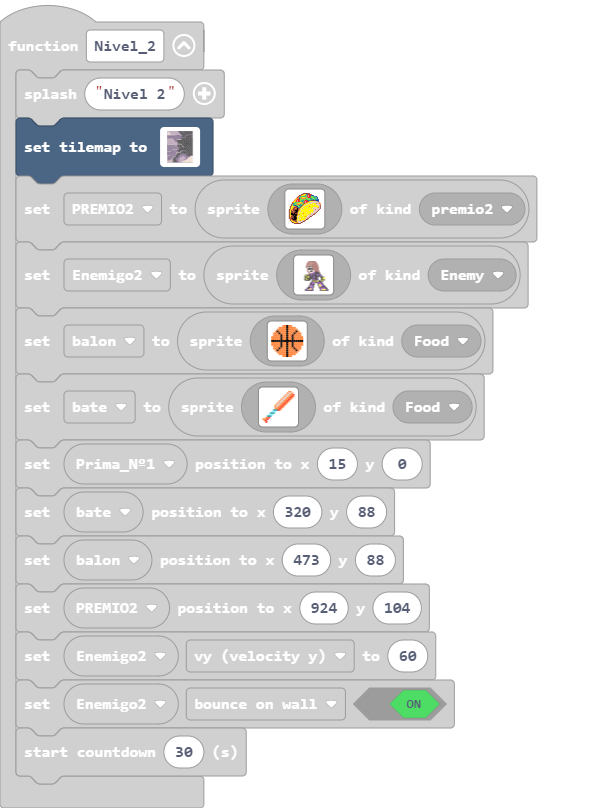
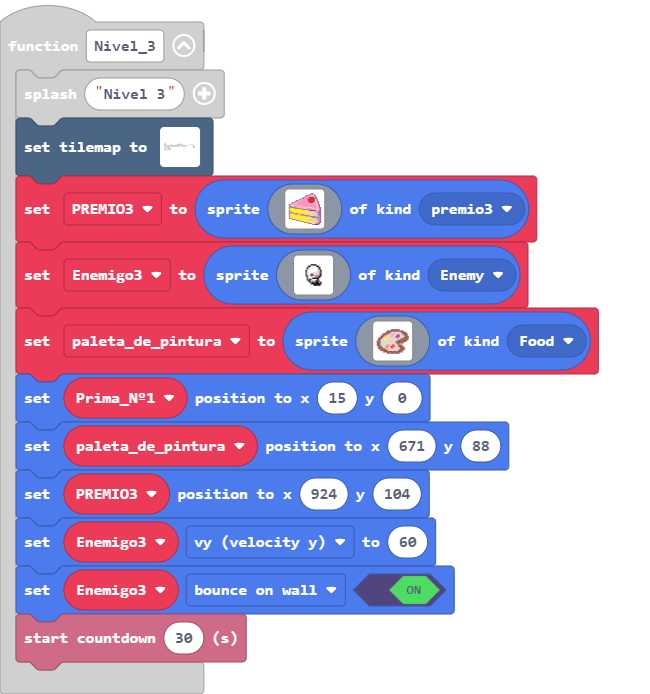
mapa 3

diff --git a/main.ts b/main.ts
@@ -18,6 +18,28 @@ namespace SpriteKind {
 }
 function Nivel_3 () {
     game.splash("Nivel 3")
[1 lines of base64/hex data omitted]
+        2 2 2 2 2 2 2 2 2 2 2 2 2 2 2 2 2 2 2 2 2 2 2 2 2 2 2 2 2 2 2 2 2 2 2 2 2 2 2 2 2 2 2 2 2 2 2 2 2 2 2 2 2 2 2 2 2 2 2 2 2 2 2 2 2 2 2 2 2 2 2 2 2 2 2 2 2 2 2 2 2 2 2 2 2 2 2 2 2 2 
+        2 2 2 2 . . . . . . . . . . . . . . . . . . . . . . . . . . . . . . . . . . . . . . . . . . . . . . . . . . . . . . . . . . . . . . . . . . . . . . . . . . . . . . . . . . . . . 2 
+        2 2 2 2 2 . . . . . . . . . . . . . . . . . . . . . . . . . . . . . . . . . . . . . . . . . . . . . . . . . . . . . . . . . . . . . . . . . . . . . . . . . . . . . . . . . . . . 2 
+        2 2 2 2 2 . . . . . . . . . . . . . . . . . . . . . . . . . . . . . . . . . . . . . . . . . . . . . . . . . . . . . . . . . . . . . . . . . . . . . . . . . . . . . . . . . . . . 2 
+        2 2 . . . . . . . . . . . . . . . . . . . . . . . . . . . . . . . . . . . . . . . . . . . . . . . . . . . . . . . . . . . . . . . . . . . . . . . 2 2 2 2 2 2 2 2 2 2 . . . . . . 2 
+        2 2 . . . . . . . . . . . . . . . . . . . . . . . . . . . . . 2 2 2 2 2 2 2 2 2 . . . . 2 2 2 2 2 2 . . . . . . . . . . 2 2 2 . . . . . . . . . . 2 2 2 2 2 2 2 2 2 2 . . . . . . 2 
+        2 2 . . . . . . . . . . . . . . . . . . . . . . . . . . 2 2 2 2 2 2 2 2 2 2 2 2 2 . . . 2 2 2 2 2 2 . . . . . . . . 2 2 2 2 2 2 2 2 . . . . . 2 2 2 2 2 . . . . 2 2 2 . . . . . . 2 
+        2 2 . . . . . . . 2 2 2 2 2 . . . . 2 2 2 2 2 . . . . . 2 2 2 2 2 . . . . . . 2 2 . . . 2 2 2 2 2 2 2 . . . . . . 2 2 2 2 2 2 2 2 2 2 2 2 2 2 2 2 2 2 . . . . . . 2 2 . . . . . . 2 
+        2 2 2 2 2 2 2 2 2 2 2 2 2 2 2 2 2 2 2 . . . 2 2 2 2 2 2 2 . . . . . . . . . . . 2 2 2 2 2 . . 2 2 2 2 2 . . . . 2 2 2 2 2 2 2 2 2 2 2 2 2 2 2 2 2 2 . . . . . . . 2 2 2 2 . . . . 2 
+        2 2 2 2 2 2 2 2 2 2 2 . . . . . . . . . . . . . . . . . . . . . . . . . . . . . . . . . . . . . . . . . 2 2 2 2 2 2 2 2 2 2 2 2 2 2 2 2 2 2 . 2 2 . . . . . . . . . 2 2 2 2 . . . 2 
+        2 2 2 2 2 2 2 2 . . . . . . . . . . . . . . . . . . . . . . . . . . . . . . . . . . . . . . . . . . . . . . . . . . . . . . . . . . . . . . . . . . . . . . . . . . . 2 2 2 . . . 2 
+        2 2 2 2 2 . . . . . . . . . . . . . . . . . . . . . . . . . . . . . . . . . . . . . . . . . . . . . . . . . . . . . . . . . . . . . . . . . . . . . . . . . . . . 2 2 2 2 2 . . . 2 
+        2 2 . . . . . . . . . . . . . . . . . . . . . . . . . . . . . . . . . . . . . . . . . . . . . . . . . . . . . . . . . . . . . . . . . . . . . . . . . . . . . . . 2 2 2 2 2 . . . 2 
+        2 . . 2 . . . . . . . . . . . . . . . . . . . . . . . . . . . . . . . . . . . . . . . . . . . . . . . . . . . . . . . . . . . . . . . . . . . . . . . . . . . . . 2 . . . . . . . 2 
+        2 2 2 . . . . . . . . . . . . . . . . . . . . . . . . . . . . . . . . . . . . . . . . . . . . . . . . . . . . . . . . . . . . . . . . . . . . . . . . . . . . . . . . . . . . . . 2 
+        2 2 . . . . . . . . . . . . . . . . . . . . . . . . . . . . . . . . . . . . . . . . . . . . . . . . . . . . . . . . . . . . . . . . . . . . . . . . . . . . . . . . . . . . . . . 2 
+        2 2 . . . . . . . . . . . . . . . . . . . . . . . . . . . . . . . . . . . . . . . . . . . . . . . . . . . . . . . . . . . . . . . . . . . . . . . . . . . . . . . . . . . . . . . 2 
+        2 2 2 . . . . . . . . . . . . . . . . . . . . . . . . . . . . . . . . . . . . . . . . . . . . . . . . . . . . . . . . . . . . . . . . . . . . . . . . . . . . . . . . . . . . . . 2 
+        2 2 2 2 2 . . . . . . . . . . . . . . . . . . . . . . . . . . . . . . . . . . . . . . . . . . . . . . . . . . . . . . . . . . . . . . . . . . . . . . . . . . . . . . . . . . . . 2 
+        2 2 2 2 2 2 2 2 2 2 2 2 2 2 2 2 2 2 2 2 2 2 2 2 2 2 2 2 2 2 2 2 2 2 2 2 2 2 2 2 2 2 2 2 2 2 2 2 2 2 2 2 2 2 2 2 2 2 2 2 2 2 2 2 2 2 2 2 2 2 2 2 2 2 2 2 2 2 2 2 2 2 2 2 2 2 2 2 2 2 
+        `, [myTiles.transparency16,myTiles.tile35,myTiles.tile37,myTiles.tile52,myTiles.tile69,myTiles.tile71,myTiles.tile66,myTiles.tile67,myTiles.tile72], TileScale.Sixteen))
     PREMIO3 = sprites.create(img`
         . . . . . . . . . . . . . . . . . . . . . . b b b . . . . . . . 
         . . . . . . . . . . . . . . . . . . . . b b 3 3 3 b . . . . . . 

diff --git a/tilemap.g.ts b/tilemap.g.ts
@@ -138,6 +138,18 @@ namespace myTiles {
     export const tile67 = image.ofBuffer(hex``);
     //% fixedInstance jres blockIdentity=images._tile
     export const tile68 = image.ofBuffer(hex``);
+    //% fixedInstance jres blockIdentity=images._tile
+    export const tile69 = image.ofBuffer(hex``);
+    //% fixedInstance jres blockIdentity=images._tile
+    export const tile70 = image.ofBuffer(hex``);
+    //% fixedInstance jres blockIdentity=images._tile
+    export const tile71 = image.ofBuffer(hex``);
+    //% fixedInstance jres blockIdentity=images._tile
+    export const tile72 = image.ofBuffer(hex``);
+    //% fixedInstance jres blockIdentity=images._tile
+    export const tile73 = image.ofBuffer(hex``);
+    //% fixedInstance jres blockIdentity=images._tile
+    export const tile74 = image.ofBuffer(hex``);
 
 }
 // Auto-generated code. Do not edit.
